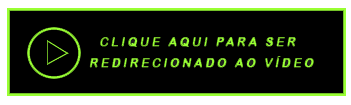
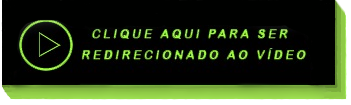
bull
atualizei o botão

diff --git a/menu.html b/menu.html
@@ -20,22 +20,22 @@
     <a class="logo" href="menu.html"><img src="imagens/logo-botao.png" alt="logo do site"></a>
     <hr>
     <audio src="media/feikicast-intro.mp3" controls autoplay></audio>
-    <h2>   Trabalhos de Inglês   </h2>
+    <h2>   Trabalhos de Inglês </h2>
     <h3>Clique no link abaixo para ter acesso aos trabalhos de inglês</h3>
-    <p><a class="link" target="_blank" href="trab-ing.html">Acesse clicando aqui!</a></p></p>
+    <p><a class="link" target="_blank" href="trab-ing.html"> Acesse clicando aqui! </a></p></p>
     <br><hr>
-    <h2>   Venha conhecer nossa página na GitHub   </h2>
+    <h2>   Venha conhecer nossa página na GitHub </h2>
     <h3>Clique no link abaixo para ter acesso a todo o nosso conteúdo que já foi ou será publicado
         em nosso perfil na GitHub! Lá você poderá conferir em primeira mão como que é a programação
         do nosso site, podendo se inspirar em nosso projeto para criar o seu!
     </h3>
-    <p><a class="link" target="_blank" rel="external" href="https://github.com/feikicast">Acesse clicando aqui!</a></p></p>
+    <p><a class="link" target="_blank" rel="external" href="https://github.com/feikicast"> Acesse clicando aqui! </a></p></p>
     <hr>
-    <h2>   Área de Downloads   </h2>
+    <h2>   Área de Downloads </h2>
     <h3>Clique no link abaixo para ter acesso à nossa área onde você poderá fazer o 
         download de todos os pdfs que foram usados até o momento.
     </h3>
-    <p><a class="link" target="_blank" href="download.html">Acesse clicando aqui!</a></p>
+    <p><a class="link" target="_blank" href="download.html"> Acesse clicando aqui! </a></p>
 
     <script async src="https://pagead2.googlesyndication.com/pagead/js/adsbygoogle.js?client=ca-pub-9222484656047222"
      crossorigin="anonymous"></script>

diff --git a/trab-ing.html b/trab-ing.html
@@ -8,22 +8,32 @@
     <title>Trabalhos de Inglês 🐀</title>
     <link rel="stylesheet" href="style.css">
 </head>
+<style>
+    h2{
+        background-color: black;
+        border-radius: 8px;
+        width: max-content;
+    }
+</style>
+
 <body>
     <a class="logo" rel="prev" href="menu.html"><img src="imagens/logo-botao.png" alt="logo do site"></a>
     <hr>
-    <h2>FeikiCast - Academic Texts</h2>
+    <h2> FeikiCast - Academic Texts </h2>
     <h3>Clique no link abaixo para acessar os artigos que foram
         usados e o trabalho:</h3>
-    <p><a class="link" href="artigos.html">Acesse clicando aqui!</a></p>
+    <p><a class="link" href="artigos.html"> Acesse clicando aqui! </a></p>
     <br> <br>
-    <h2>FeikiCast - Episódios</h2>
+    <h2> FeikiCast - Episódios </h2>
     <h3>Clique no link abaixo para assistir o maior podcast
         desta galáxia:</h3>
-    <p><a class="link" href="eps.html">Acesse clicando aqui!</a></p>
+    <p><a class="link" href="eps.html"> Acesse clicando aqui! </a></p>
 
     <script async src="https://pagead2.googlesyndication.com/pagead/js/adsbygoogle.js?client=ca-pub-9222484656047222"
      crossorigin="anonymous"></script>
     
+    <br><br>
+    <a class="seta" rel="prev" href="menu.html"><img src="imagens/setanova40.png" alt="botão de voltar"></a>
     <br><br><br><br>
 </body>
 

diff --git a/index.html b/index.html
@@ -31,19 +31,9 @@
     <h2>Antes de acessar o site responda o item abaixo:</h2>
     <h3>Você está utilizando nosso site através de um computador ou um celular/tablet?</h3>
     <div>
-        <p><a class="resp" rel="next" href="cll.html"><h3>Celular/Tablet</a></p>
-        <p><a class="resp" rel="external" href="menu.html"><h3>Computador</a></p>
+        <p><a class="resp" rel="next" href="cll.html"<h3>Celular/Tablet</a></p>
+        <p><a class="resp" rel="external" href="menu.html"<h3>Computador</a></p>
     </div>
 </body>
-
-<footer class = "foo">
-    <table class="tabela">
-        <tr>
-            <td><h3>FeikiCast Corporation<sup>&copy;</sup></h3></td>
-            <td><a class="rodpe" target="_blank" rel="next" href="contato.html"><h3>Entre em contato conosco</h3></td></a>
-            <td><a class="rodpe" target="_blank" rel="next" href="membros.html"><h3>Quem somos nós?</h3></td></a>
-        </tr>
-    </table>  
-</footer>
 
 </html>

diff --git a/downL-trab-ing.html b/downL-trab-ing.html
@@ -20,6 +20,11 @@
     .img{
         height: 30px;
     }
+    h2{
+        background-color: rgba(128, 128, 128, 0.212);
+        border-radius: 8px;
+        width: max-content;
+    }
 </style>
 
 <body>
@@ -27,7 +32,7 @@
     <hr>
     <h1>   Trabalho de Inglês - PDFs   </h1>
     <div>
-        <h2>A Survey on Natural Language Processing for Fake News Detection </h2>
+        <h2> A Survey on Natural Language Processing for Fake News Detection </h2>
         <a 
             href="pdf/trab-ingles/trab-ingles-zip.zip" download="trab-ingles-zip" type="application/zip">
             <img class="img" src="imagens/download-png.png" alt="baixar">

diff --git a/eps.html b/eps.html
@@ -10,17 +10,16 @@
 </head>
 <style>
     h2{
-        text-align: justify;
-    }
-    .img{
-        background-color: rgba(0, 0, 0, 0.219);
+        background-color: black;
+        border-radius: 8px;
+        width: max-content;
     }
 </style>
 
 <body>
     <a class="logo" rel="prev" href="menu.html"><img src="imagens/logo-botao.png" alt="logo do site"></a>
     <hr>
-    <h2>Dimitri e Phillip - Episódio #001</h2>
+    <h2> Dimitri e Phillip - Episódio #001 </h2>
     <article>
         <h3>Nesse episódio nós conversamos com dois parlamentaristas,
             um deles é russo, chamado Dimitri, já o outro é canadense,

diff --git a/cll.html b/cll.html
@@ -38,8 +38,8 @@
     <hr>
     <h2>Deseja continuar acessando o site de forma mobile?</h2>
     <div>
-        <p><a class="resp" rel="next" href="menu.html"><h3>Sim</a></p>
-        <p><a class="resp" rel="external" href="https://www.google.com.br"><h3>Não</a></p>
+        <p><a class="resp" rel="next" href="menu.html"<h3>Sim</a></p>
+        <p><a class="resp" rel="external" href="https://www.google.com.br"<h3>Não</a></p>
     </div>
     <br><br><br>
 </body>
